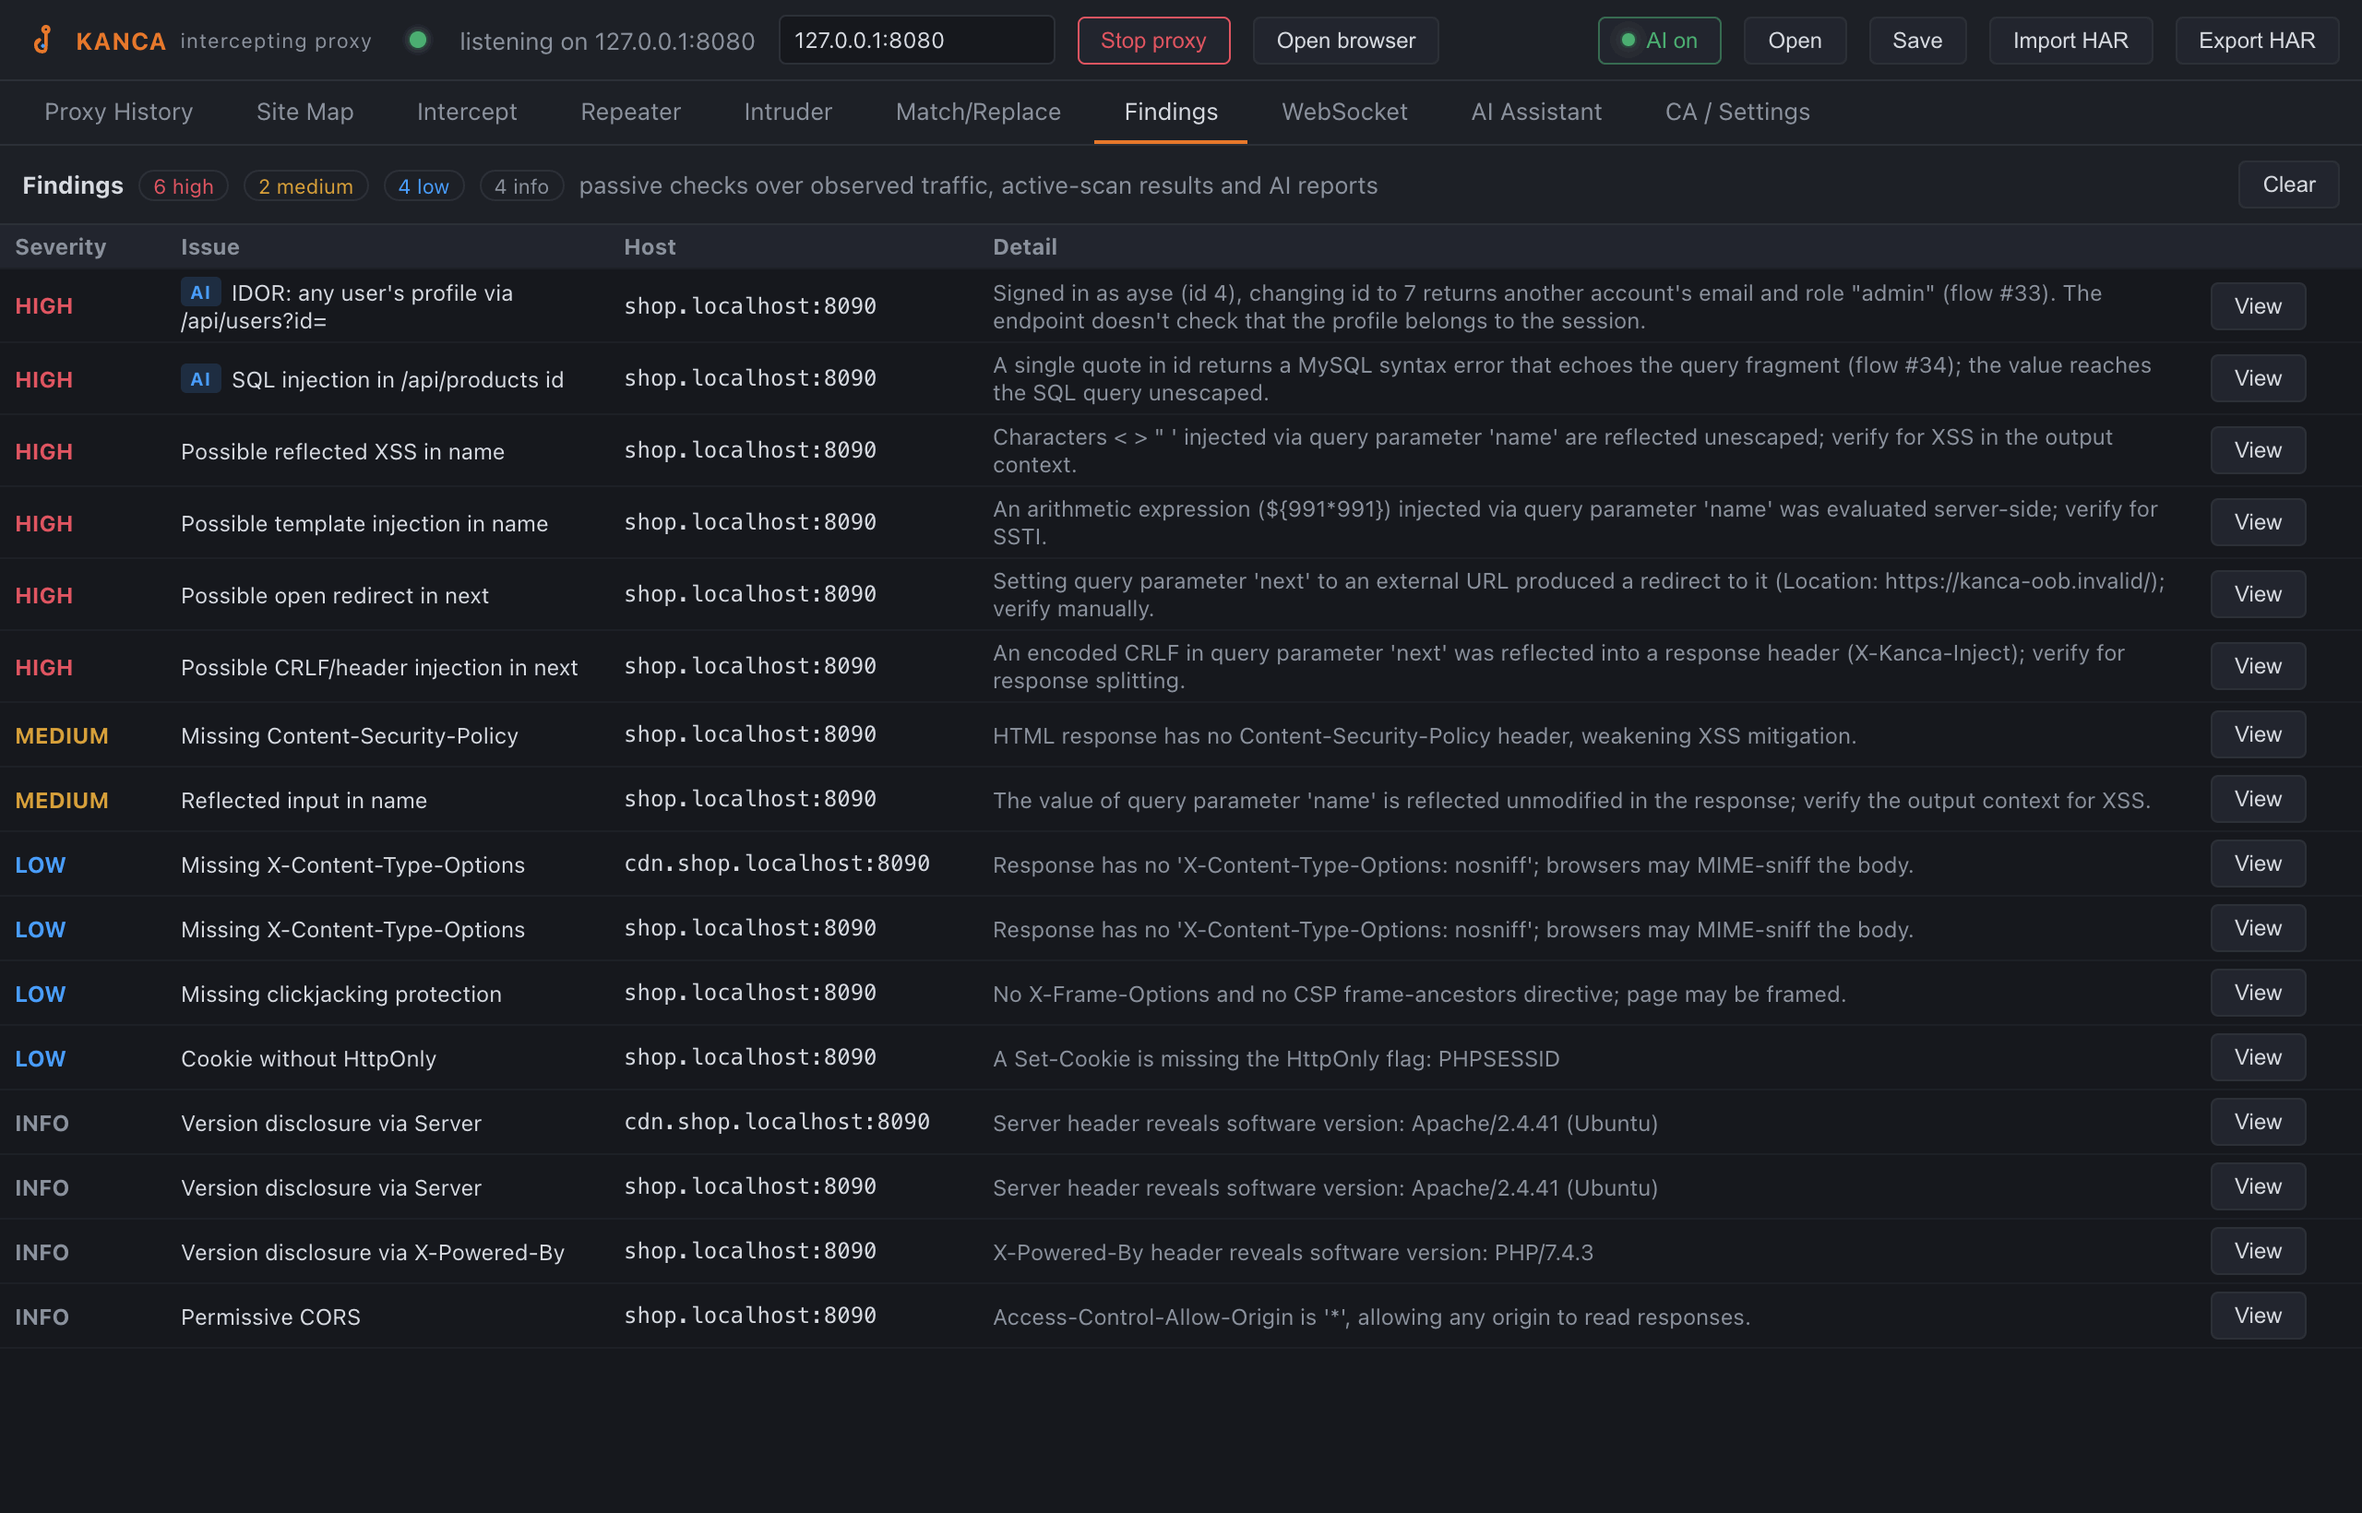
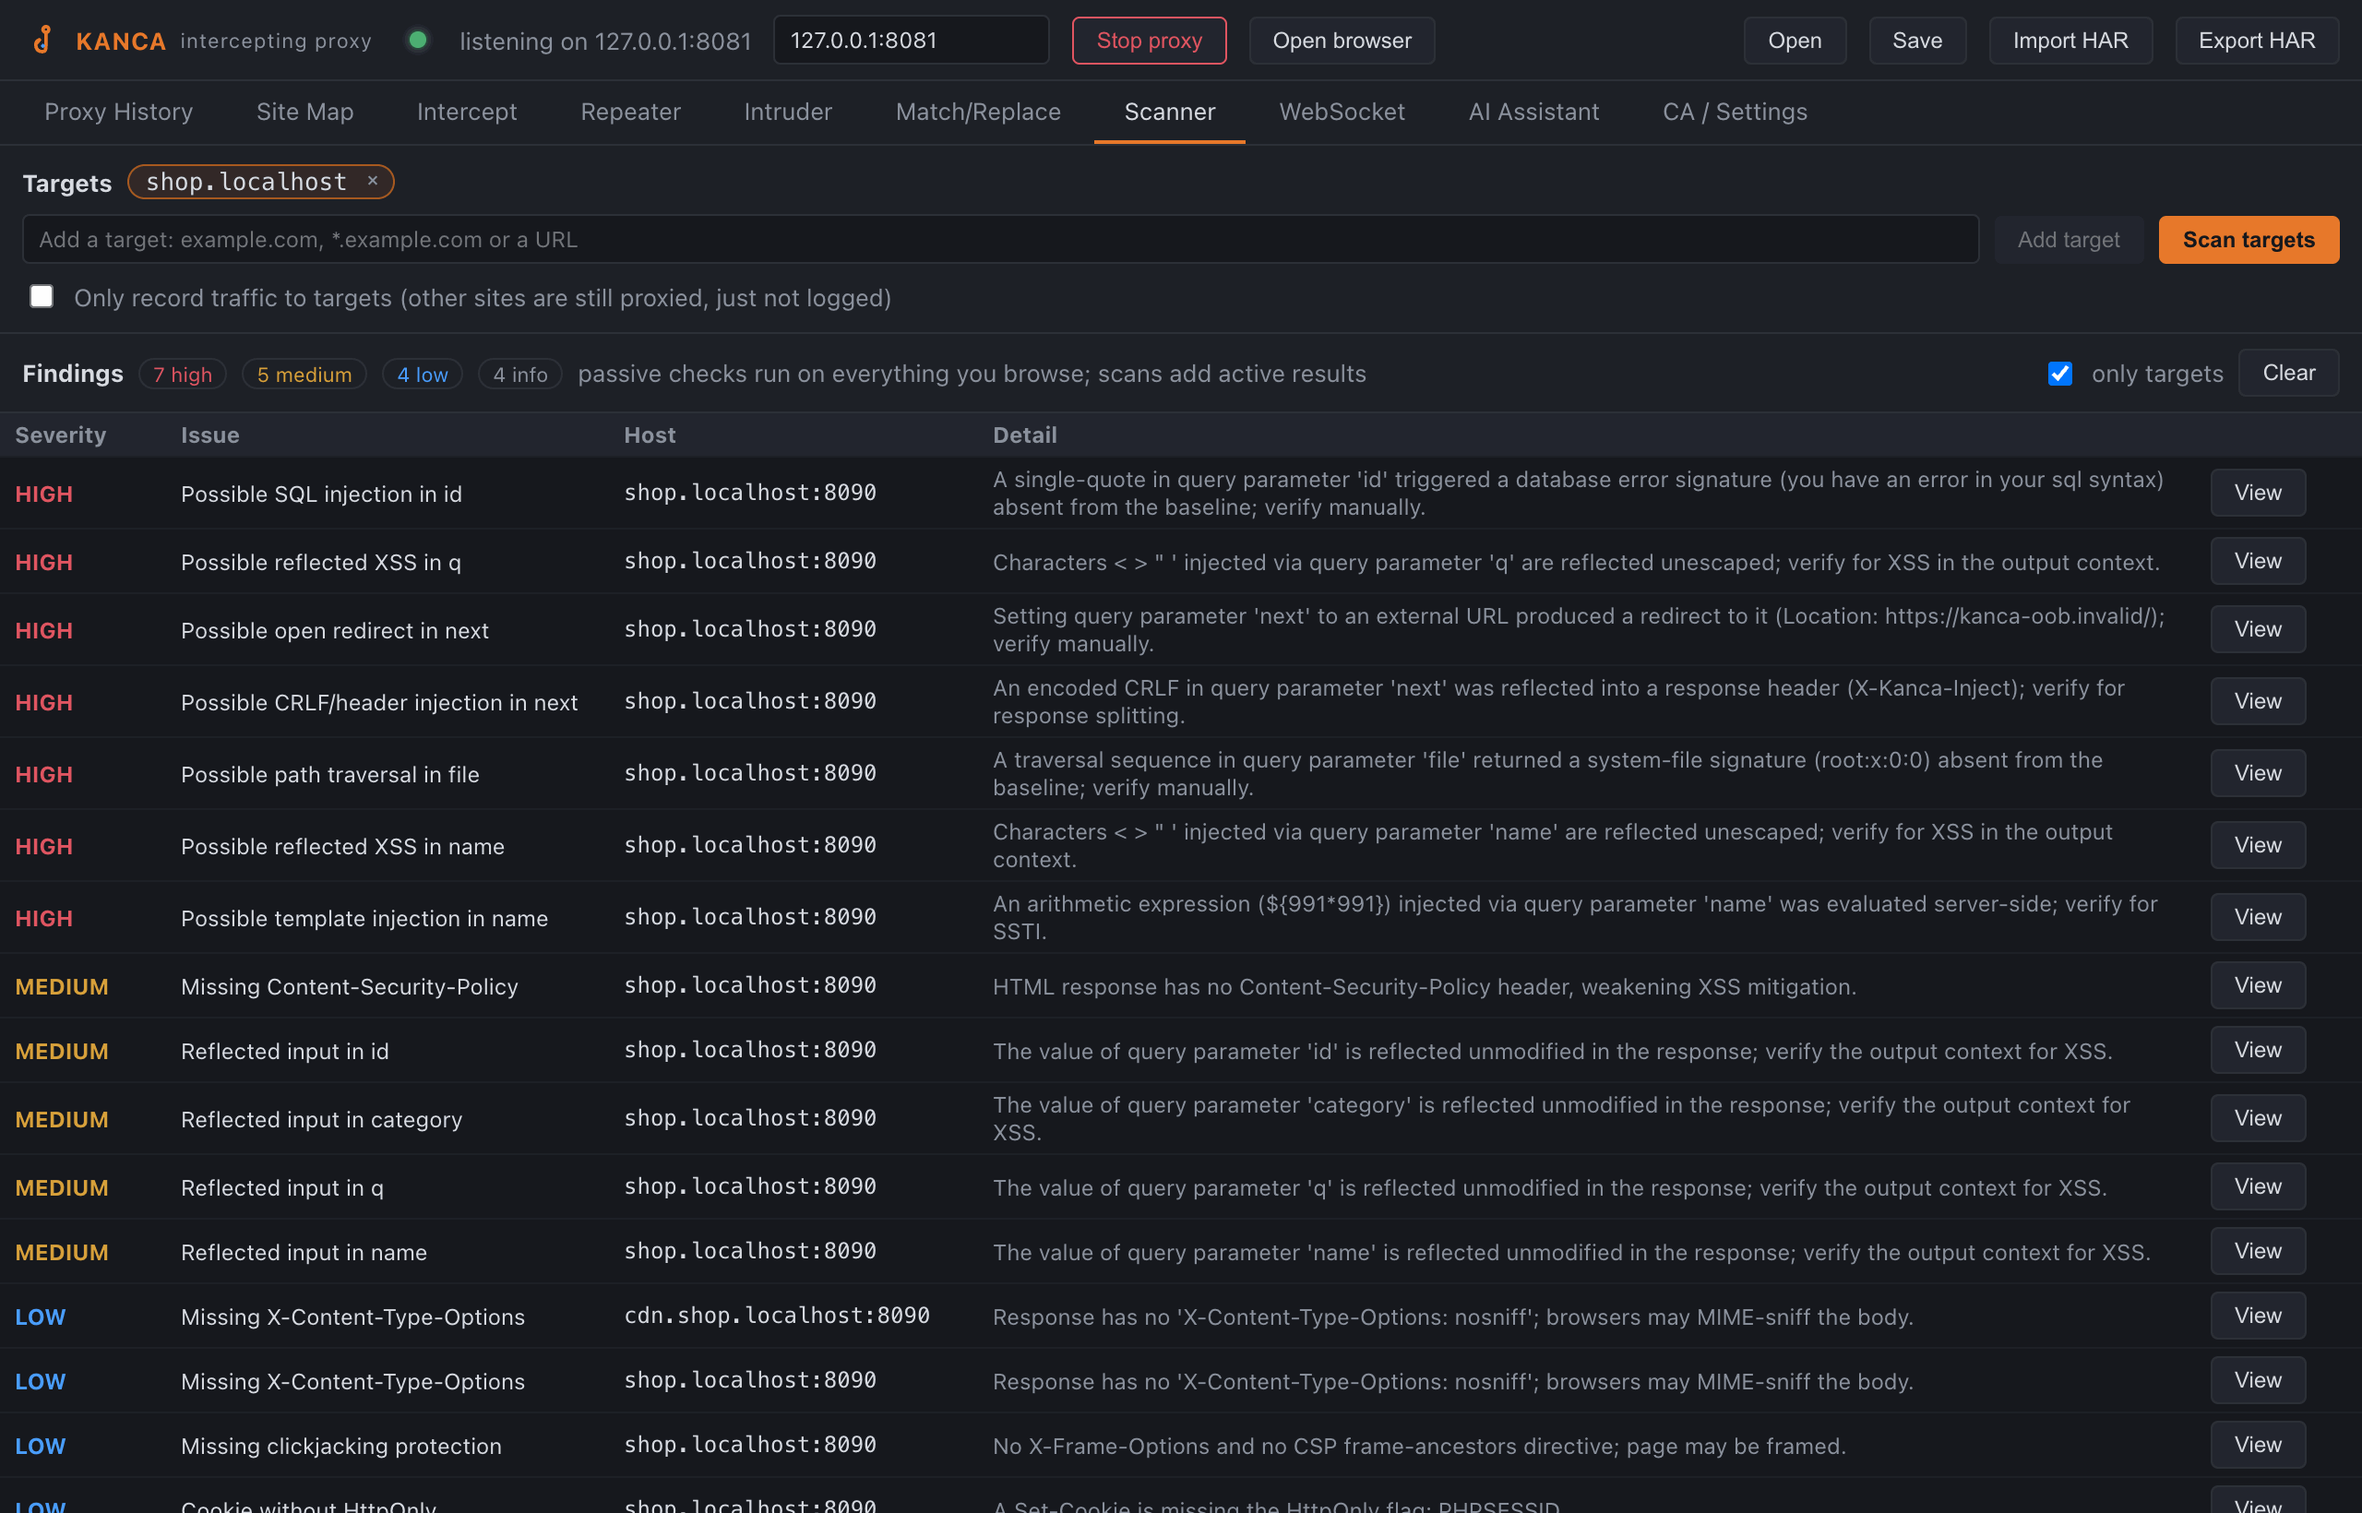
Document the Scanner tab

diff --git a/README.tr.md b/README.tr.md
@@ -36,7 +36,7 @@ fuzzlamanıza olanak tanır.
     <td width="50%"><img src="assets/screenshots/intruder.png" alt="Intruder"><br><sub><b>Intruder</b> — 1–30 arası kullanıcı ID'leri taranıyor; grep-match iki admin hesabını işaretliyor.</sub></td>
   </tr>
   <tr>
-    <td width="50%"><img src="assets/screenshots/findings.png" alt="Bulgular"><br><sub><b>Bulgular</b> — pasif header/cookie kontrolleri, aktif tarama ipuçları (XSS, SQLi, SSTI, open redirect, CRLF) ve Claude'un doğruladığı açıklar (<b>AI</b>).</sub></td>
+    <td width="50%"><img src="assets/screenshots/findings.png" alt="Scanner"><br><sub><b>Scanner</b> — hedefler, tek tıkla <b>Scan targets</b> ve bulgular: pasif kontroller, aktif tarama ipuçları (XSS, SQLi, SSTI, open redirect, CRLF) ve Claude'un doğruladığı açıklar (<b>AI</b>).</sub></td>
     <td width="50%"><img src="assets/screenshots/sitemap.png" alt="Site haritası"><br><sub><b>Site haritası</b> — yakalanan endpoint'ler host bazlı bir ağaç olarak.</sub></td>
   </tr>
 </table>
@@ -130,8 +130,8 @@ ayrı bir profille açar.
 
 Kanca, kuruluysa Chrome'u tercih eder. Tarayıcının kendi güncelleme ve senkron
 trafiği kapatılır, ancak Edge yine de Microsoft servislerine birkaç istek
-gönderir; bunları geçmişten uzak tutmak için sitenizi **CA / Settings → Targets**
-altına ekleyip *Only record traffic to targets* seçeneğini işaretleyin.
+gönderir; bunları geçmişten uzak tutmak için sitenizi **Scanner** sekmesinde hedef
+olarak ekleyip *Only record traffic to targets* seçeneğini işaretleyin.
 
 CLI'da `go run ./cmd/kanca -browser` aynı işi yapar.
 
@@ -180,7 +180,7 @@ yakaladığınız trafiği okur, zafiyet arar, şüphelerini kendi istekleriyle 
 doğruladıklarını **Findings** sekmesine kaydeder. Kanca ile
 [Model Context Protocol](https://modelcontextprotocol.io) üzerinden konuşur.
 
-**Açmak için:** siteyi **CA / Settings → Targets** altına ekleyin, **AI
+**Açmak için:** siteyi **Scanner** sekmesinde hedef olarak ekleyin, **AI
 Assistant** sekmesini açın ve **Allow AI assistants to use Kanca** kutusunu
 işaretleyin. Ardından Claude'u bağlayın:
 
@@ -242,13 +242,13 @@ Arayüz olmadan, `kanca -scope shop.example -mcp` aynı uç noktayı
 | **Interception kuyruğu** | İstekleri (isteğe bağlı olarak yanıtları da) duraklatın, ham baytları düzenleyin, ardından iletin veya düşürün. |
 | **Repeater** | Herhangi bir isteği alın, özgürce değiştirin ve istediğiniz kadar tekrar gönderin — her sekme kendi gönderim geçmişini tutar ve satır bazlı diff, bir yanıtı bir önceki gönderimle karşılaştırır. |
 | **Intruder / fuzzer** | Dört saldırı tipiyle (sniper, battering ram, pitchfork, cluster bomb) otomatik payload enjeksiyonu, eşzamanlılık kontrolü ve grep-eşleşme vurgulama. Payload setleri bir listeden veya üretilen sayısal bir aralıktan gelir; her set için işlemciler (URL/base64 encode, büyük/küçük harf, MD5/SHA-1/SHA-256) uygulanabilir. |
-| **Hedefler (Targets)** | Test etmeye izinli olduğunuz host'lar (tam eşleşme, üst alan adı veya `*.` joker karakter; adres yapıştırmak da olur). Aktif tarama, site taraması ve AI asistanı bunların dışına dokunmaz; *Only record traffic to targets* seçilmedikçe her site yine kaydedilir. |
+| **Hedefler (Targets)** | **Scanner** sekmesinde belirlenir: test etmeye izinli olduğunuz host'lar (tam eşleşme, üst alan adı veya `*.` joker karakter; adres yapıştırmak da olur). Aktif tarama, site taraması ve AI asistanı bunların dışına dokunmaz; *Only record traffic to targets* seçilmedikçe her site yine kaydedilir. |
 | **Okunabilir gövdeler** | Tarayıcılar Kanca'nın çözemediği `br` ve `zstd` sıkıştırmalarını ister; Kanca sunuculardan yalnızca `gzip` ve `deflate` ister ve bunları görüntüleme, arama, Intruder grep ve tarama için çözer. |
 | **Site haritası** | Yakalanan trafik, düz bir günlük yerine host bazlı bir URL yolu ağacı olarak sunulur; böylece hedefin yapısını görebilirsiniz. |
 | **Match & replace** | Hattın üzerinde uygulanan regex değişimleri — giden isteklerin ve gelen yanıtların istek satırını, bir header'ı veya gövdesini yeniden yazın (Content-Length doğru tutulur). |
 | **Gövde arama** | Sadece method/host/path değil, istek/yanıt gövdelerinde de geçmişi filtreleyin. |
 | **Pasif tarayıcı** | Gözlemlenen trafikten güvenlik sorunlarını işaretler (eksik CSP/HSTS/X-Content-Type-Options, güvensiz cookie'ler, gevşek CORS, sürüm ifşası) — ek bir istek göndermeden. |
-| **Site taraması** | Site Map'te **Scan site**, bir hedefte yakalanan parametreli tüm istekleri tek tek aktif tarayıcıdan geçirir ve ilerlemeyi canlı gösterir. Formlar ve durumu değiştiren diğer istekler, her prob onları yeniden gönderdiği için yalnızca siz işaretlerseniz dahil edilir. |
+| **Site taraması** | Scanner sekmesindeki **Scan targets** (ya da Site Map'te bir sitenin yanındaki **Scan site**), hedeflerinizde yakalanan parametreli tüm istekleri tek tek aktif tarayıcıdan geçirir ve ilerlemeyi canlı gösterir; bulgular hemen altında listelenir. Formlar ve durumu değiştiren diğer istekler, her prob onları yeniden gönderdiği için yalnızca siz işaretlerseniz dahil edilir. |
 | **Aktif tarayıcı** | Talep üzerine, tek bir isteğin insertion point'lerini — query, form gövdesi ve JSON gövdesi parametreleri — yansıyan girdi/XSS, hataya dayalı SQL enjeksiyonu, path traversal, open redirect, template enjeksiyonu (SSTI) ve CRLF/header enjeksiyonu için dener; yalnızca hedeflerinizle sınırlı. Opt-in bir **agresif** mod, boolean ve time-based SQLi ile time-based komut enjeksiyonu kontrollerini ekler (bunlar hedefi gözlemlenebilir şekilde çalıştırır). Sadece tespit amaçlıdır: her kontrol bir baseline ile karşılaştırma yapar ve elle doğrulanacak bir ipucu işaretler — asla istismar (exploitation) girişiminde bulunmaz. |
 | **Kaydet / içe-dışa aktar** | Tam bir oturumu (flow'lar, kurallar, bulgular, kapsam) bir proje dosyasına kaydedip sonra tekrar açın; yakalanan trafiği HAR 1.2 olarak dışa aktarın ve başka araçlardan HAR yakalamalarını içe aktarın. |
 | **WebSocket desteği** | `ws://` ve `wss://` upgrade'leri şeffaf biçimde köprülenir (normal HTTP için hop-by-hop olarak `Upgrade`/`Connection` header'ları temizlendiğinden eskiden bu bağlantılar bozulurdu) — canlı, bağlantı başına frame kaydıyla birlikte; sıfırdan yazılmış RFC 6455 framing, harici bağımlılık yok. |

diff --git a/README.md b/README.md
@@ -33,7 +33,7 @@ every transaction, and lets you pause, edit, replay and fuzz requests.
     <td width="50%"><img src="assets/screenshots/intruder.png" alt="Intruder"><br><sub><b>Intruder</b> — enumerating user IDs 1–30; grep-match flags the two admin accounts.</sub></td>
   </tr>
   <tr>
-    <td width="50%"><img src="assets/screenshots/findings.png" alt="Findings"><br><sub><b>Findings</b> — passive header/cookie checks, active-scan leads (XSS, SQLi, SSTI, open redirect, CRLF) and issues Claude confirmed (<b>AI</b>).</sub></td>
+    <td width="50%"><img src="assets/screenshots/findings.png" alt="Scanner"><br><sub><b>Scanner</b> — targets, one-click <b>Scan targets</b>, and the findings: passive checks, active-scan leads (XSS, SQLi, SSTI, open redirect, CRLF) and issues Claude confirmed (<b>AI</b>).</sub></td>
     <td width="50%"><img src="assets/screenshots/sitemap.png" alt="Site map"><br><sub><b>Site map</b> — captured endpoints as a per-host tree.</sub></td>
   </tr>
 </table>
@@ -125,7 +125,7 @@ Chrome, Edge or Brave in a separate profile that is already routed through it.
 
 Kanca prefers Chrome when it's installed. The browser's own update and sync
 traffic is switched off, but Edge still sends a few requests to Microsoft
-services; add your site under **CA / Settings → Targets** and tick *Only record
+services; add your site as a target in the **Scanner** tab and tick *Only record
 traffic to targets* to keep them out of the history.
 
 From the CLI, `go run ./cmd/kanca -browser` does the same.
@@ -174,7 +174,7 @@ captured, looks for vulnerabilities, checks its hunches with its own requests an
 records what it confirms in **Findings**. It talks to Kanca over the
 [Model Context Protocol](https://modelcontextprotocol.io).
 
-**Turn it on:** add the site under **CA / Settings → Targets**, open the **AI
+**Turn it on:** add the site as a target in the **Scanner** tab, open the **AI
 Assistant** tab and tick **Allow AI assistants to use Kanca**. Then connect Claude:
 
 - **Claude Code**: click **Copy command** and run it once in a terminal. It looks like
@@ -231,13 +231,13 @@ the [CLI](#quick-start--headless-cli) and prints the commands to connect.
 | **Interception queue** | Pause requests (and optionally responses), edit the raw bytes, then forward or drop them. |
 | **Repeater** | Take any request, tweak it freely, and resend it as many times as you like — each tab keeps its own send history, and a line diff compares a response with the previous send. |
 | **Intruder / fuzzer** | Automated payload injection with four attack types (sniper, battering ram, pitchfork, cluster bomb), concurrency control and grep-match highlighting. Payload sets come from a list or a generated numeric range, with per-set processors (URL/base64 encode, upper/lower, MD5/SHA-1/SHA-256). |
-| **Targets** | The hosts you may test (exact, parent-domain or `*.` wildcard; pasting a URL works). Active scans, site scans and the AI assistant refuse anything else, while every site is still recorded unless you choose *Only record traffic to targets*. |
+| **Targets** | Set in the **Scanner** tab: the hosts you may test (exact, parent-domain or `*.` wildcard; pasting a URL works). Active scans, site scans and the AI assistant refuse anything else, while every site is still recorded unless you choose *Only record traffic to targets*. |
 | **Readable bodies** | Browsers ask for `br` and `zstd`, which Kanca can't decode, so it asks servers only for `gzip` and `deflate` and decodes those for display, search, Intruder grep and scanning. |
 | **Site map** | Captured traffic arranged as a per-host tree of URL paths, so you can see a target's structure rather than a flat log. |
 | **Match & replace** | Regex substitutions applied on the wire — rewrite the request line, a header, or the body of outbound requests and inbound responses (Content-Length is kept correct). |
 | **Body search** | Filter the history across request/response bodies, not just method/host/path. |
 | **Passive scanner** | Flags security issues from observed traffic (missing CSP/HSTS/X-Content-Type-Options, insecure cookies, permissive CORS, version disclosure) without sending any extra requests. |
-| **Site scan** | In the Site Map, **Scan site** runs the active scanner over every captured request with parameters on a target, one at a time, with live progress. Forms and other state-changing requests are only included when you tick them, since each probe submits them again. |
+| **Site scan** | **Scan targets** in the Scanner tab (or **Scan site** on a host in the Site Map) runs the active scanner over every captured request with parameters on your targets, one at a time, with live progress; the findings appear right below. Forms and other state-changing requests are only included when you tick them, since each probe submits them again. |
 | **Active scanner** | On demand, probes one request's insertion points — query, form-body and JSON-body parameters — for reflected input/XSS, error-based SQL injection, path traversal, open redirect, template injection (SSTI) and CRLF/header injection, restricted to your targets. An opt-in **aggressive** mode adds boolean- and time-based SQLi and time-based command-injection checks (these make the target do observable work). Detection-only: every check compares against a baseline and flags a lead to verify by hand — it never attempts exploitation. |
 | **Save / import / export** | Save a full session (flows, rules, findings, scope) to a project file and reopen it later; export captured traffic as HAR 1.2 and import HAR captures from other tools. |
 | **WebSocket support** | `ws://` and `wss://` upgrades are bridged transparently (they used to break, since `Upgrade`/`Connection` are stripped as hop-by-hop for ordinary HTTP) with a live, per-connection frame log — hand-rolled RFC 6455 framing, no dependency. |
